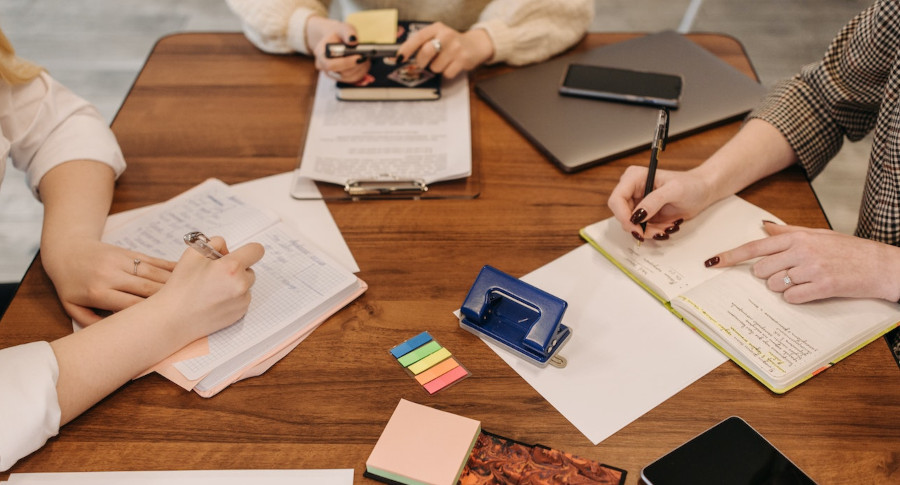
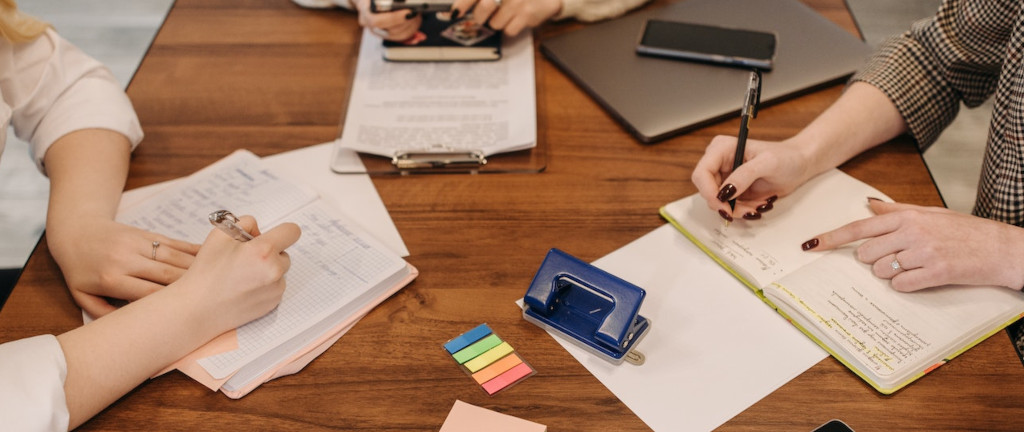
atualização

diff --git a/seletivo.html b/seletivo.html
@@ -98,7 +98,7 @@
                         type="image/jpg">
                     <source media="(max-width: 1100px)" srcset="imagens/logos/processo_seletivo(991).jpg"
                         type="image/jpg">
-                    <img src="imagens/logos/processo_seletivo(1100).jpg" alt="Exemplificação de Afasia">
+                    <img src="imagens/logos/processo_seletivo(1024).jpg" alt="Exemplificação de Afasia">
                 </picture>
                 <br>
                 <p>O processo seletivo para concessão de bolsa de iniciação cientifica do Projeto Celeiro de Software e
@@ -125,7 +125,7 @@
                                 Formulário de Inscrição: <a href="formulario.html">Processo Seletivo nº xxxx/2023</a></p> <br>
                         </div>
                     </div>
-
+<br>
                 </section>
                 <section id="EditaisAnteriores">
                     <hr>

diff --git a/estilos/media-queries-atalho.css b/estilos/media-queries-atalho.css
@@ -10,7 +10,7 @@ Telas grandes acima de 1200*/
         height: 180px;
         columns: 285px 2;
     }
-    article{
+    article#article{
         width: 78vw;
     }
     section#artigo {
@@ -32,6 +32,9 @@ Telas grandes acima de 1200*/
 @media screen and (min-width: 1200px) {
     article{
         margin: 2px;
+       
+    }
+    article#article{
         width: 78vw;
     }
     main {

diff --git a/estilos/estilo.css b/estilos/estilo.css
@@ -143,7 +143,6 @@ span#icon-menu-suspenso2{
   article{
     width: 78vw;
     margin: auto; 
-    text-align: center;
     background-color: white;
     /* box-shadow: 1px 2px 5px rgba(0, 0, 0, 0.438); */
     padding: 8px 2px;
